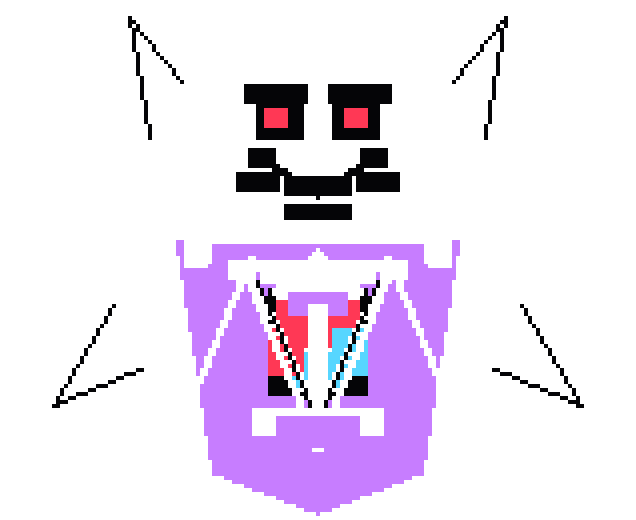
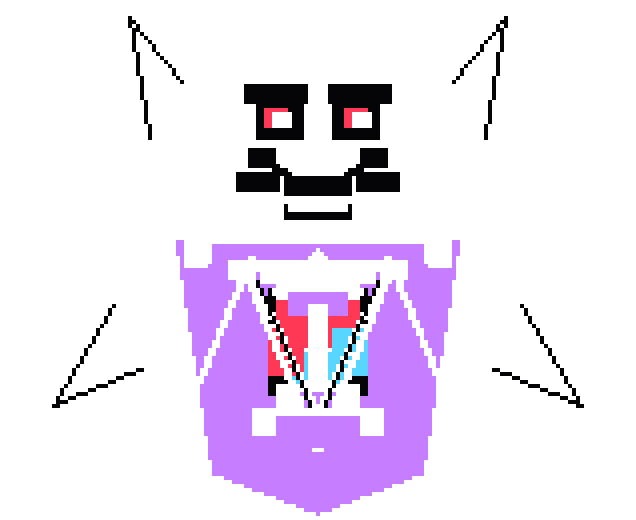
Add Asriel hope gate pressure

diff --git a/script.js b/script.js
@@ -1676,6 +1676,17 @@ function asrielPattern(dt) {
     const x = arena.x + arena.w * lanes[index % lanes.length];
     spawn("diamond", { x, y: arena.y - 22, vx: index % 2 ? 34 : -34, vy: 220 + progress * 42, r: 9, spin: -3.6 });
   }
+  if (state.wave === 2 && every("asriel-hope-gate", 1.06 - progress * 0.1, dt)) {
+    const index = sequenceIndex(1.06 - progress * 0.1);
+    const safe = index % 6;
+    for (let i = 0; i < 6; i++) {
+      if (i === safe || i === (safe + 1) % 6) continue;
+      const x = arena.x + arena.w * (0.1 + i * 0.16);
+      spawn("beam", { x, y: arena.y, vx: 0, vy: 0, r: 24, horizontal: false, warn: intensityRange(0.58, 0.42), life: 0.72 });
+    }
+    const x = arena.x + arena.w * (0.18 + ((safe + 3) % 6) * 0.12);
+    spawn("diamond", { x, y: arena.y - 24, vx: (index % 2 ? 36 : -36), vy: 238 + progress * 42, r: 9, spin: -3.8, delay: intensityRange(0.16, 0.08) });
+  }
   if (state.wave === 2 && every("asriel-shocker", 1.48 - progress * 0.14, dt)) {
     const index = sequenceIndex(1.48 - progress * 0.14);
     const safeColumn = index % 5;

diff --git a/tools/generate_boss_portraits.py b/tools/generate_boss_portraits.py
@@ -460,6 +460,8 @@ def asriel():
     rect(d, (84, 26, 95, 34), BLACK)
     rect(d, (67, 27, 72, 31), RED)
     rect(d, (87, 27, 92, 31), RED)
+    rect(d, (69, 28, 73, 31), WHITE)
+    rect(d, (89, 28, 93, 31), WHITE)
     rect(d, (62, 21, 77, 25), BLACK)
     rect(d, (83, 21, 98, 25), BLACK)
     rect(d, (72, 44, 88, 48), BLACK)
@@ -469,6 +471,7 @@ def asriel():
     rect(d, (91, 37, 97, 41), BLACK)
     rect(d, (60, 43, 70, 47), BLACK)
     rect(d, (90, 43, 100, 47), BLACK)
+    rect(d, (73, 49, 87, 52), WHITE)
     poly(d, [(43, 58), (5, 74), (32, 91), (13, 113), (58, 87)], WHITE)
     poly(d, [(117, 58), (155, 74), (128, 91), (147, 113), (102, 87)], WHITE)
     line(d, [(29, 76), (14, 101), (38, 91)], BLACK, 1)
@@ -492,6 +495,8 @@ def asriel():
     rect(d, (68, 82, 76, 93), RED)
     rect(d, (84, 82, 92, 93), BLUE)
     rect(d, (66, 66, 94, 70), WHITE)
+    rect(d, (70, 96, 90, 101), WHITE)
+    rect(d, (75, 98, 85, 112), PURPLE)
     line(d, [(63, 68), (80, 104), (97, 68)], WHITE, 2)
     trim_panel(d, 61, 67, 99, 112, WHITE, BLACK)
     rect(d, (64, 102, 96, 108), WHITE)

diff --git a/README.md b/README.md
@@ -66,6 +66,7 @@ Sans Bone Shuffle now adds an original low/high bone-wall layer with safe column
 Sans and Disbelief Papyrus also have sharper jacket/scarf/chest pixel blocks, which carry into the Bad Time Trio thumbnail.
 Mettaton now has stronger hair, face, and chest-core pixels, and Ratings Rush adds a scripted ratings-lane burst with safe columns and pellet pressure for a showier yellow-heart practice feel.
 Omega Flowey now has clearer monitor sides, vine nodes, and body-core pixels, while Petal Burst adds an original petal-fan layer with skipped lanes for safer screen-filling pressure.
+Asriel now has sharper eye highlights, mouth, and robe-core pixels, and Hope Break adds an original hope-gate burst with safe columns plus falling diamond pressure.
 Dynamic wave ramps use staged opener/build/finale intensity, so attacks start readable and tighten toward the end instead of changing at one flat rate.
 Weapon warnings and hazard telegraphs also follow that intensity curve, giving longer reads at the start of a turn and quicker warnings during the finale.
 Pattern sequencing now advances with the tuned spawn rate, so faster waves use the intended ordered reads instead of repeating lanes; Sans, Undyne, Undying, Asgore, Omega, Asriel, Mettaton, and Disbelief patterns have tighter speeds and more source-style safe gaps.
